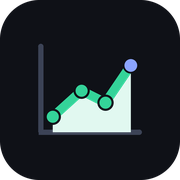
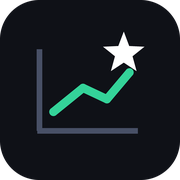
Add files via upload

Changed region(s): [[0.1944, 0.1667, 0.8056, 0.75], [0.4444, 0.4444, 0.4722, 0.4722]]

diff --git a/index.html b/index.html
@@ -9,11 +9,17 @@
 <meta name="apple-mobile-web-app-capable" content="yes">
 <meta name="apple-mobile-web-app-status-bar-style" content="black-translucent">
 <meta name="apple-mobile-web-app-title" content="Laporan Keuangan">
+<meta name="application-name" content="Laporan Keuangan">
+<meta name="msapplication-TileColor" content="#0F1117">
+<meta name="msapplication-TileImage" content="icons/icon-192.png">
 <title>Laporan Keuangan</title>
-<link rel="manifest" href="manifest.webmanifest">
+<link rel="manifest" href="manifest.json">
 <link rel="apple-touch-icon" href="icons/apple-touch-icon.png">
+<link rel="apple-touch-icon" sizes="180x180" href="icons/apple-touch-icon.png">
 <link rel="icon" type="image/png" sizes="32x32" href="icons/favicon-32.png">
 <link rel="icon" type="image/png" sizes="192x192" href="icons/icon-192.png">
+<link rel="icon" type="image/png" sizes="512x512" href="icons/icon-512.png">
[1 lines of base64/hex data omitted]
 <link rel="icon" type="image/svg+xml" href="icons/icon.svg">
 <script>
   /* terapkan tema sebelum render untuk menghindari flash */
@@ -71,8 +77,8 @@
   }
   .logo{display:flex;align-items:center;gap:11px;padding:2px 8px 22px}
   .logo .mark{
-    width:30px;height:30px;border-radius:8px;background:var(--ink);color:var(--card);
-    display:grid;place-items:center;flex:0 0 30px;
+    width:34px;height:34px;border-radius:9px;background:var(--ink);color:var(--card);
+    display:grid;place-items:center;flex:0 0 34px;box-shadow:var(--shadow-sm);
   }
   .logo b{color:var(--ink);font-size:15px;letter-spacing:-.02em;display:block;line-height:1.15;font-weight:650}
   .logo span{font-size:10.5px;color:var(--muted);letter-spacing:.01em}
@@ -381,9 +387,10 @@
   <aside class="sidebar">
     <div class="logo">
       <div class="mark" aria-hidden="true">
-        <svg viewBox="0 0 48 48" width="19" height="19" fill="none">
-          <path d="M9 34 L18 24 L27 28 L38 14" stroke="currentColor" stroke-width="3.4" stroke-linecap="round" stroke-linejoin="round"/>
-          <circle cx="38" cy="14" r="2.6" fill="currentColor"/>
+        <svg viewBox="0 0 48 48" width="26" height="26" fill="none">
+          <path d="M13 35 V15 M13 35 H38" stroke="currentColor" stroke-width="2.2" stroke-linecap="round" opacity=".42"/>
+          <path d="M17 31 L24 24.5 L30 27 L36 19" stroke="#34D399" stroke-width="2.6" stroke-linecap="round" stroke-linejoin="round"/>
+          <path d="M33.4 12.2 l1.5 3.2 3.5 .45 -2.6 2.45 .68 3.45 -3.08-1.72 -3.08 1.72 .68-3.45 -2.6-2.45 3.5-.45 z" fill="currentColor"/>
         </svg>
       </div>
       <div>
@@ -405,6 +412,7 @@
 
   <!-- MAIN -->
   <main class="main">
+    <div id="iconWarn"></div>
     <div id="installBanner"></div>
     <div class="topbar">
       <div class="page-title">
@@ -1892,7 +1900,13 @@ function refreshInstallUI(){
 
   banner.innerHTML = `<div class="card" style="padding:15px 18px;margin-bottom:16px;display:flex;gap:14px;align-items:center;justify-content:space-between;flex-wrap:wrap">
     <div style="display:flex;gap:12px;align-items:center;min-width:220px;flex:1">
-      <img src="icons/icon-192.png" alt="" width="38" height="38" style="border-radius:10px;flex:0 0 38px">
+      <span style="width:38px;height:38px;border-radius:10px;background:#0F1117;display:grid;place-items:center;flex:0 0 38px">
+        <svg viewBox="0 0 48 48" width="26" height="26" fill="none">
+          <path d="M13 35 V15 M13 35 H38" stroke="#7c849b" stroke-width="2.2" stroke-linecap="round"/>
+          <path d="M17 31 L24 24.5 L30 27 L36 19" stroke="#34D399" stroke-width="2.8" stroke-linecap="round" stroke-linejoin="round"/>
+          <path d="M33.4 12.2 l1.5 3.2 3.5 .45 -2.6 2.45 .68 3.45 -3.08-1.72 -3.08 1.72 .68-3.45 -2.6-2.45 3.5-.45 z" fill="#ffffff"/>
+        </svg>
+      </span>
       <div>
         <div style="font-weight:650;font-size:13.5px;letter-spacing:-.01em">Install "Laporan Keuangan"</div>
         <div style="color:var(--muted);font-size:12px;line-height:1.5;margin-top:1px">${body}</div>
@@ -1962,12 +1976,50 @@ if('serviceWorker' in navigator && location.protocol.startsWith('http')){
   }, 250);
 })();
 
+
+/* ---------- diagnosa ikon: beri tahu kalau manifest/ikon tidak ditemukan ---------- */
+async function checkIconSetup(){
+  const base = new URL('.', location.href);
+  const rel = ['manifest.json','icons/icon-192.png','icons/icon-512.png','icons/apple-touch-icon.png'];
+  const paths = rel.map(x => new URL(x, base).href);
+  const missing = [];
+  for(const p of paths){
+    try{
+      const r = await fetch(p, { method:'HEAD', cache:'no-store' });
+      if(!r.ok) missing.push(rel[paths.indexOf(p)]);
+      else if(p.endsWith('manifest.json')){
+        // pastikan isinya manifest sah, bukan halaman HTML (fallback SPA)
+        const txt = await (await fetch(p, {cache:'no-store'})).text();
+        if(!/"icons"\s*:/.test(txt)) missing.push(rel[paths.indexOf(p)] + ' (isinya bukan manifest — mungkin halaman HTML)');
+      }
+    }catch(e){ missing.push(rel[paths.indexOf(p)] || p); }
+  }
+  if(!missing.length) return;
+  const banner = $('#iconWarn');
+  if(!banner) return;
+  banner.innerHTML = `<div class="card" style="padding:14px 18px;margin-bottom:16px;border-color:var(--warn)">
+    <div style="display:flex;gap:12px;align-items:flex-start">
+      <span style="font-size:15px;line-height:1.3">⚠</span>
+      <div style="flex:1;min-width:0">
+        <div style="font-weight:650;font-size:13px;margin-bottom:3px">Ikon aplikasi belum ditemukan</div>
+        <div style="color:var(--muted);font-size:12px;line-height:1.6">
+          File ini belum ter-upload di alamat yang sama:<br>
+          <code style="font-size:11px;background:var(--bg-soft);padding:1px 5px;border-radius:4px">${missing.join('</code> <code style="font-size:11px;background:var(--bg-soft);padding:1px 5px;border-radius:4px">')}</code><br>
+          Unggah <b>manifest.json</b> dan folder <b>icons/</b> ke tempat yang sama dengan file HTML ini.
+          Akibatnya saat ini, saat di-install akan muncul ikon bawaan browser/Netlify.
+        </div>
+        <button class="btn btn-sm btn-ghost" style="margin-top:8px;padding-left:0" onclick="document.getElementById('iconWarn').innerHTML=''">Tutup</button>
+      </div>
+    </div></div>`;
+}
+
 /* ============================================================
    INIT
    ============================================================ */
 applyTheme(document.documentElement.getAttribute('data-theme') || 'light');
 go('dashboard');
 refreshInstallUI();
+checkIconSetup();
 </script>
 </body>
 </html>

diff --git a/sw.js b/sw.js
@@ -5,7 +5,7 @@ const CACHE = 'lapkeu-v1';
 const ASSETS = [
   './',
   './index.html',
-  './manifest.webmanifest',
+  './manifest.json',
   './icons/icon-96.png',
   './icons/icon-192.png',
   './icons/icon-512.png',
